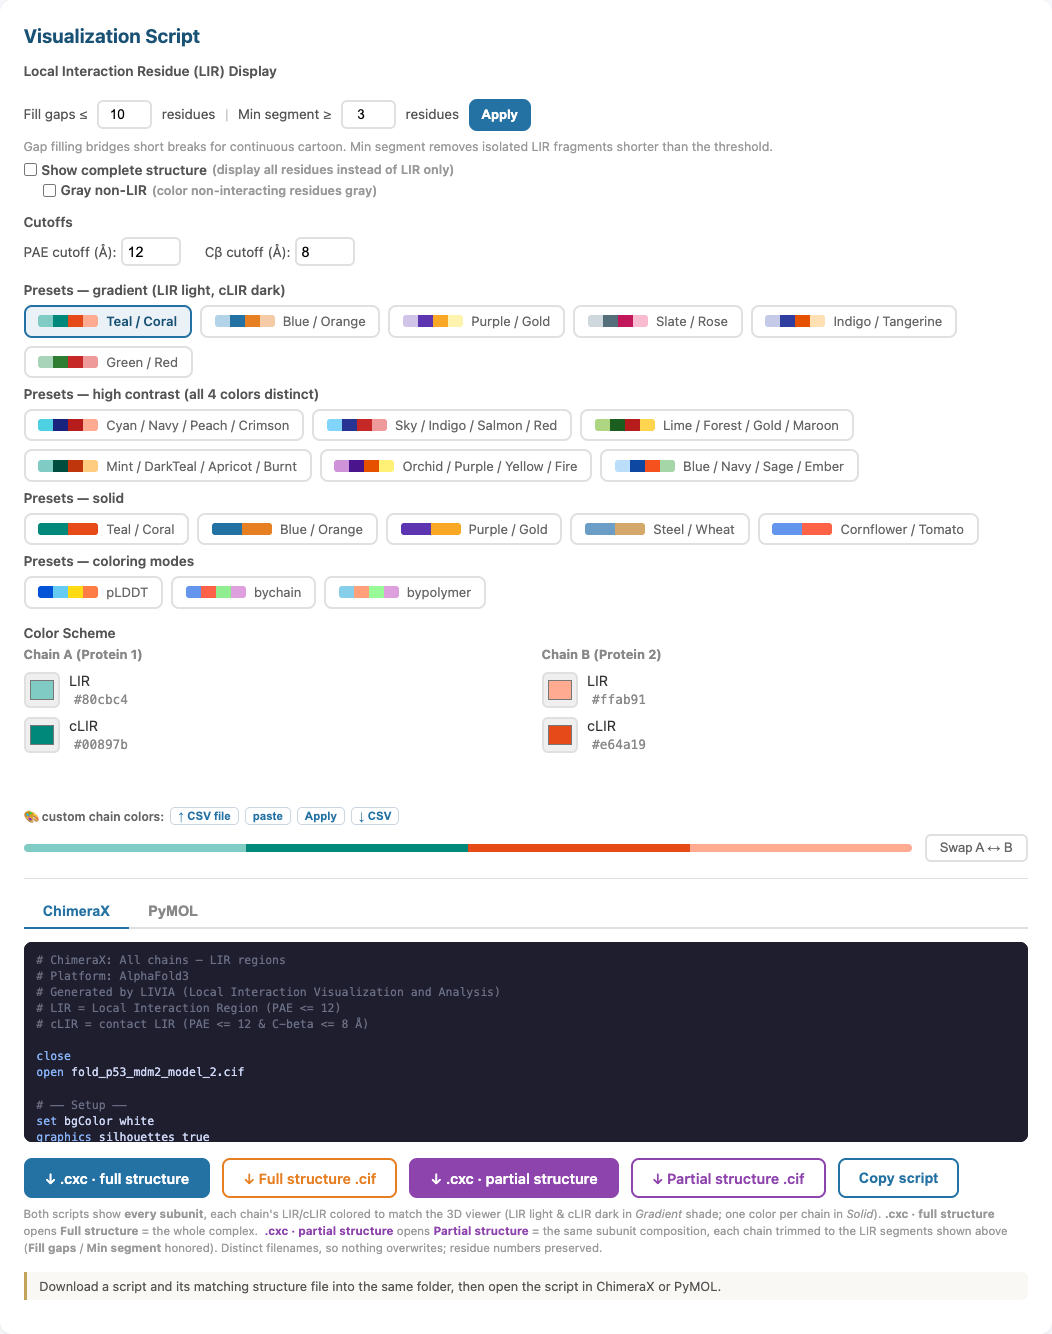
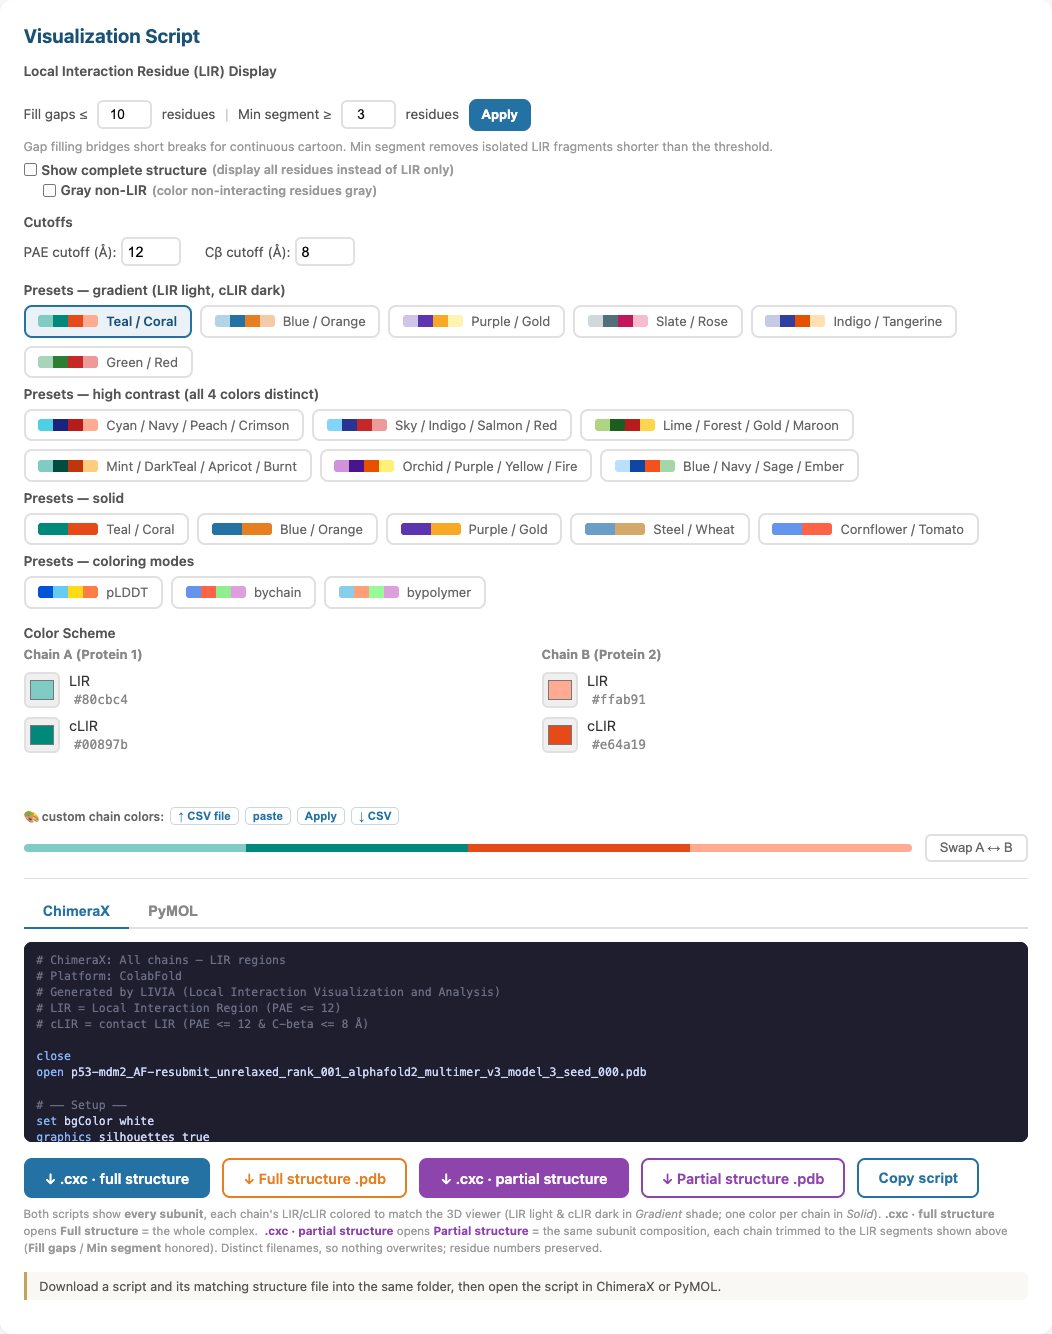
Switch tutorial example to AlphaFold-Multimer, consolidate to 11 steps
The AlphaFold3 p53-MDM2 example's model_2 renders with a disconnected
floppy fragment in the Mol* 3D viewer that looks broken in a
screenshot; ColabFold's AlphaFold-Multimer prediction for the same
pair doesn't have this. Re-shot every step against ColabFold instead
(the AlphaFold-Multimer platform LIVIA's own header already lists).

Also folded Chain identity + Reported Interactions (MIST) into one
step, and Score Matrix back into the PAE/LIS/cLIS heatmaps step, since
13 steps had gotten long. Label Settings and the two Contact Map
figures stay separate since they're each a distinct enough surface
(and the two contact maps look nothing alike) to warrant their own
screenshot. Net: 13 -> 11 steps.

The metrics-table step now also mentions the Lightweight bundle
download (a small share-ready package: scores + structures + static
PAE images), which about.html's Prediction Analysis feature list was
missing entirely.

diff --git a/tutorials.html b/tutorials.html
@@ -221,50 +221,42 @@
                 </div>
                 <div class="step-item" data-step="1" onclick="goToStep('universal', 1)">
                     <div class="step-badge">2</div>
-                    <div class="step-text">Review per-model metrics &mdash; iLIS, iLIA, iLISA, ipSAE, actifpTM, ipTM</div>
+                    <div class="step-text">Review per-model metrics, or download a shareable lightweight bundle</div>
                 </div>
                 <div class="step-item" data-step="2" onclick="goToStep('universal', 2)">
                     <div class="step-badge">3</div>
-                    <div class="step-text">Identify chains via UniProt &mdash; resolves gene, organism, and domains</div>
+                    <div class="step-text">Identify chains via UniProt, then check Reported Interactions (MIST)</div>
                 </div>
                 <div class="step-item" data-step="3" onclick="goToStep('universal', 3)">
                     <div class="step-badge">4</div>
-                    <div class="step-text">Reported Interactions (MIST) &mdash; has this pair already been reported?</div>
+                    <div class="step-text">Score Matrix and PAE/LIS/cLIS heatmaps across all models</div>
                 </div>
                 <div class="step-item" data-step="4" onclick="goToStep('universal', 4)">
                     <div class="step-badge">5</div>
-                    <div class="step-text">Score Matrix &mdash; pick any metric for each triangle, per model</div>
+                    <div class="step-text">Label Settings &mdash; custom axis names and per-chain labels</div>
                 </div>
                 <div class="step-item" data-step="5" onclick="goToStep('universal', 5)">
                     <div class="step-badge">6</div>
-                    <div class="step-text">Label Settings &mdash; custom axis names and per-chain labels</div>
+                    <div class="step-text">Sequence Viewer &mdash; interaction residues highlighted</div>
                 </div>
                 <div class="step-item" data-step="6" onclick="goToStep('universal', 6)">
                     <div class="step-badge">7</div>
-                    <div class="step-text">Explore PAE, LIS, and cLIS heatmaps across all models</div>
+                    <div class="step-text">Linear Contact Map &mdash; cLIR pairs, domains, and MIST evidence</div>
                 </div>
                 <div class="step-item" data-step="7" onclick="goToStep('universal', 7)">
                     <div class="step-badge">8</div>
-                    <div class="step-text">Sequence Viewer &mdash; interaction residues highlighted</div>
+                    <div class="step-text">Circular Contact Map &mdash; chord diagram with domain and pLDDT rings</div>
                 </div>
                 <div class="step-item" data-step="8" onclick="goToStep('universal', 8)">
                     <div class="step-badge">9</div>
-                    <div class="step-text">Linear Contact Map &mdash; cLIR pairs, domains, and MIST evidence</div>
+                    <div class="step-text">View the 3D structure in Mol* viewer</div>
                 </div>
                 <div class="step-item" data-step="9" onclick="goToStep('universal', 9)">
                     <div class="step-badge">10</div>
-                    <div class="step-text">Circular Contact Map &mdash; chord diagram with domain and pLDDT rings</div>
+                    <div class="step-text">Visualization Script &mdash; color presets and custom chain colors</div>
                 </div>
                 <div class="step-item" data-step="10" onclick="goToStep('universal', 10)">
                     <div class="step-badge">11</div>
-                    <div class="step-text">View the 3D structure in Mol* viewer</div>
-                </div>
-                <div class="step-item" data-step="11" onclick="goToStep('universal', 11)">
-                    <div class="step-badge">12</div>
-                    <div class="step-text">Visualization Script &mdash; color presets and custom chain colors</div>
-                </div>
-                <div class="step-item" data-step="12" onclick="goToStep('universal', 12)">
-                    <div class="step-badge">13</div>
                     <div class="step-text">Per-Residue intra-chain LIS &amp; pLDDT charts</div>
                 </div>
             </div>
@@ -368,13 +360,11 @@
 const tutorials = {
     universal: {
         steps: [
-            { src: 'screenshots/tut_universal_1.png', caption: 'Upload prediction files or pick a p53\u2013MDM2 example (AlphaFold3, ColabFold, Boltz-2, Chai-1, OpenFold3, Protenix-v2, ESMFold2), or a 3\u20134 chain AlphaFold3 complex (PRC2, BBSome, MIS12C)' },
-            { src: 'screenshots/tut_universal_2.png', caption: 'Per-model metrics \u2014 iLIS, iLIA, iLISA, ipSAE, actifpTM, ipTM, LIS, cLIS, and LIR/cLIR counts, with iLIS FPR thresholds below' },
-            { src: 'screenshots/tut_universal_identity.png', caption: 'Chain identity \u2014 looks up each chain in UniProt by sequence and lists gene, organism, and domains found' },
-            { src: 'screenshots/tut_universal_mist.png', caption: 'Reported Interactions (MIST) \u2014 counts of physical (PPI) and genetic (GI) interaction papers already on record for this pair' },
-            { src: 'screenshots/tut_universal_score.png', caption: 'Score Matrix \u2014 lower-left and upper-right triangles each pick from iLIS, iLIA, iLISA, ipTM, ipSAE, actifpTM, LIS, cLIS, LIR, or cLIR' },
+            { src: 'screenshots/tut_universal_1.png', caption: 'Upload prediction files or pick a p53\u2013MDM2 example (AlphaFold-Multimer via ColabFold, AlphaFold3, Boltz-2, Chai-1, OpenFold3, Protenix-v2, ESMFold2), or a 3\u20134 chain AlphaFold3 complex (PRC2, BBSome, MIS12C)' },
+            { src: 'screenshots/tut_universal_2.png', caption: 'Per-model metrics \u2014 iLIS, iLIA, iLISA, ipSAE, actifpTM, ipTM, LIS, cLIS, and LIR/cLIR counts, with iLIS FPR thresholds below. Lightweight bundle downloads a small share-ready package (scores + structures + PAE images, no numeric PAE)' },
+            { src: 'screenshots/tut_universal_identity.png', caption: 'Chain identity resolves each chain in UniProt (gene, organism, domains), then Reported Interactions (MIST) checks whether the pair is already on record \u2014 physical (PPI) and genetic (GI) interaction paper counts' },
+            { src: 'screenshots/tut_universal_3.png', caption: 'Score Matrix \u2014 each triangle picks from iLIS, iLIA, iLISA, ipTM, ipSAE, actifpTM, LIS, cLIS, LIR, or cLIR \u2014 alongside PAE, LIS, and cLIS heatmaps across all models' },
             { src: 'screenshots/tut_universal_labels.png', caption: 'Label Settings \u2014 axis name mode, style, and a custom "chain,label" editor that renames chains everywhere they appear' },
-            { src: 'screenshots/tut_universal_3.png', caption: 'PAE, LIS, and cLIS heatmaps across all models' },
             { src: 'screenshots/tut_universal_seq.png', caption: 'LIR (light): PAE \u2264 12 \u00C5 residues. cLIR (dark bold): also within C\u03B2 8 \u00C5' },
             { src: 'screenshots/tut_universal_linear.png', caption: 'Linear Contact Map \u2014 cLIR contact lines with UniProt/Pfam domain tracks, pLDDT coloring, and MIST-reported interaction counts' },
             { src: 'screenshots/tut_universal_chord.png', caption: 'Circular Contact Map \u2014 chord diagram with cLIR contact lines and optional pLDDT/domain rings, per model or all models combined' },

diff --git a/about.html b/about.html
@@ -169,6 +169,7 @@
                 <li><strong>Label Settings</strong> &mdash; shared panel controlling axis label mode (gene name or chain ID) and custom per-chain labels across the Score Matrix and the PAE/LIS/cLIS maps</li>
                 <li><strong>Color presets</strong> &mdash; gradient, high-contrast, solid, and coloring-mode (pLDDT, bychain, bypolymer) presets, plus per-residue custom chain colors via a pasted or uploaded CSV</li>
                 <li><strong>NPZ/NPY parser</strong> &mdash; reads Boltz PAE (.npz) and Chai-1 PAE (.npy) in browser</li>
+                <li><strong>Lightweight bundle</strong> &mdash; shrinks a prediction to a small, share-ready package (scores + structures + static PAE images, no numeric PAE), with adjustable PAE color scale, image size, and font scale</li>
                 <li><strong>Downloads</strong> &mdash; .cxc script, structure file, CSV with full metrics</li>
             </ul>
         </div>
